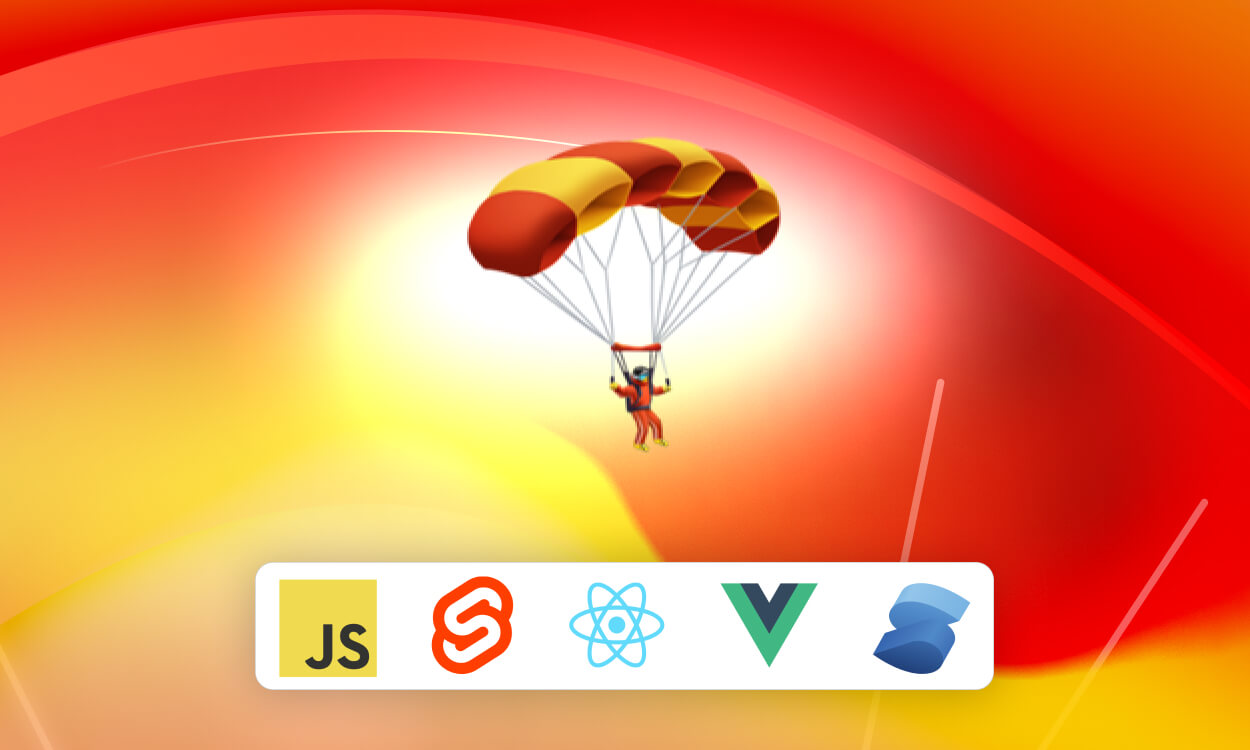
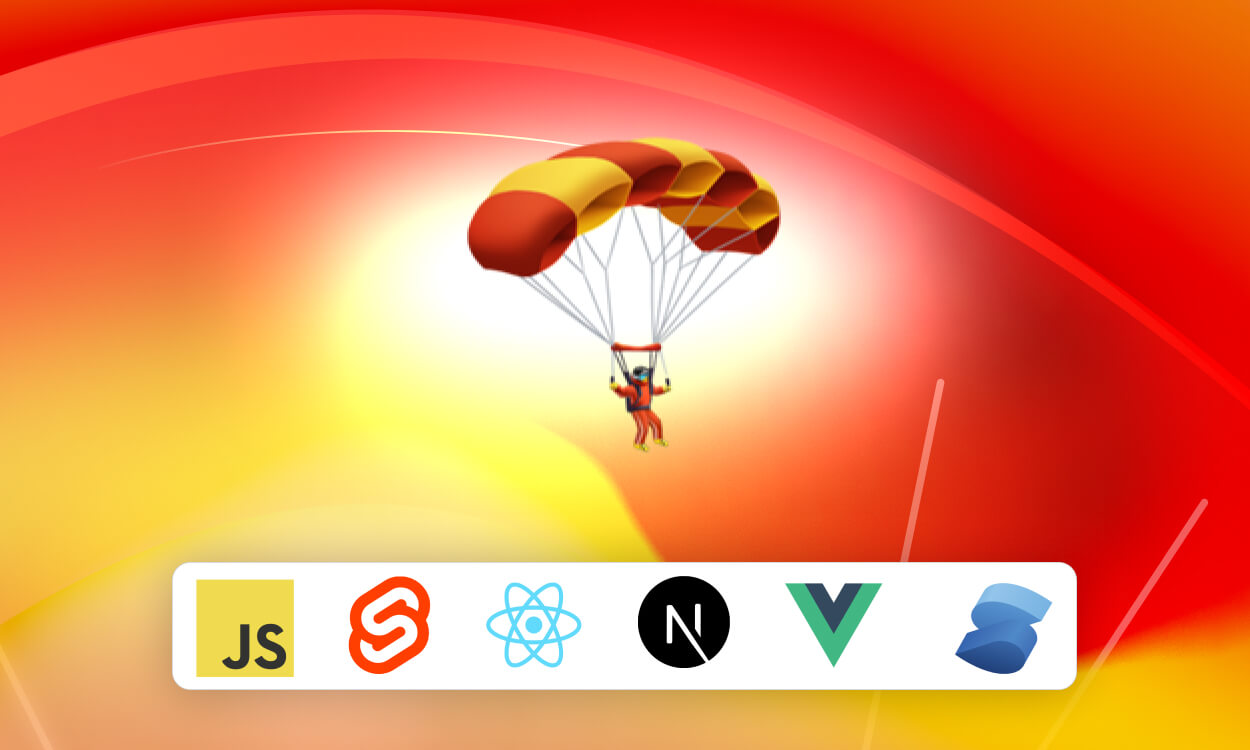
chore: add nextjs and remove overlay gradient

Changed region(s): [[0.1248, 0.736, 0.8736, 0.9507]]

diff --git a/inlang/source-code/markdown/src/custom-elements/doc-slider.ts b/inlang/source-code/markdown/src/custom-elements/doc-slider.ts
@@ -89,20 +89,6 @@ export class DocSlider extends LitElement {
 				position: relative;
 			}
 
-			#contents::after {
-				background: linear-gradient(
-					to right,
-					#f7fafc 0%,
-					transparent 3%,
-					transparent 97%,
-					#f7fafc 100%
-				);
-				content: "";
-				position: absolute;
-				height: 100%;
-				width: 100%;
-			}
-
 			.wrapper {
 				position: relative;
 				display: flex;
